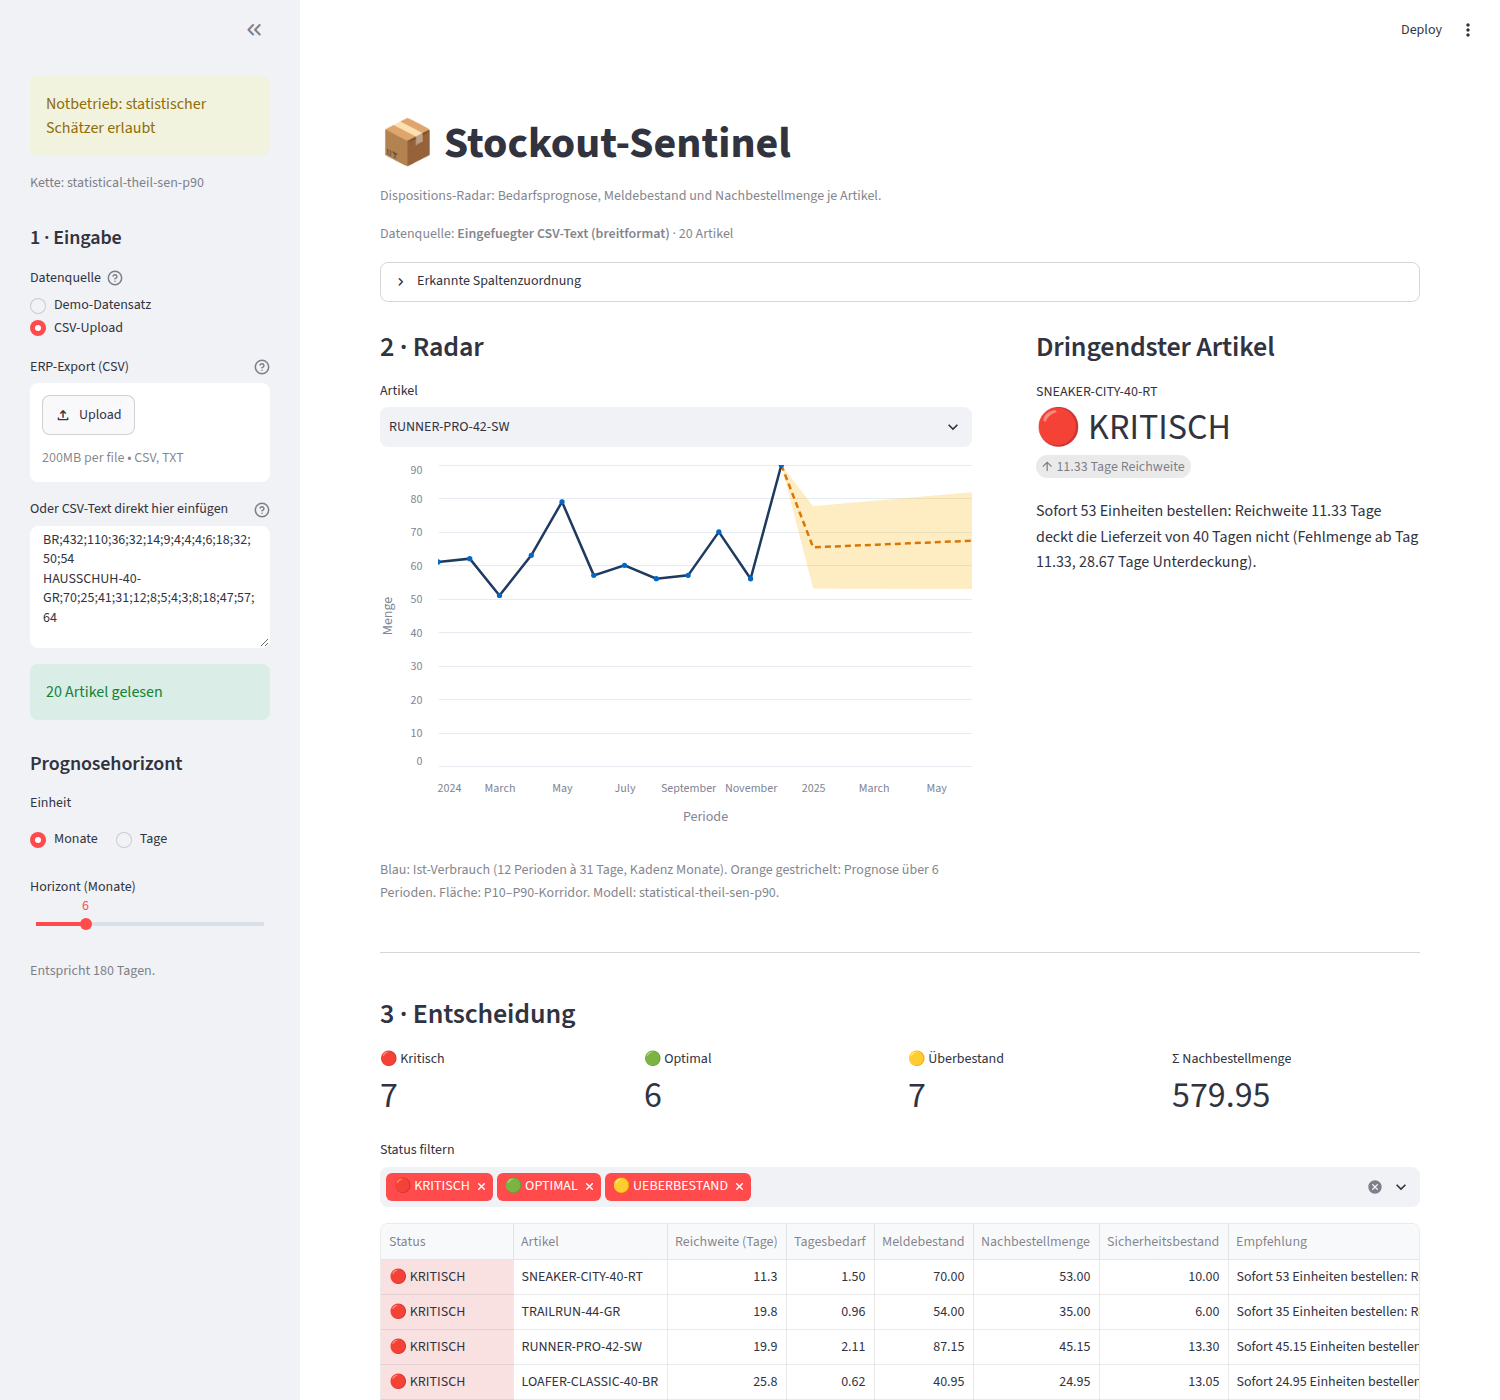
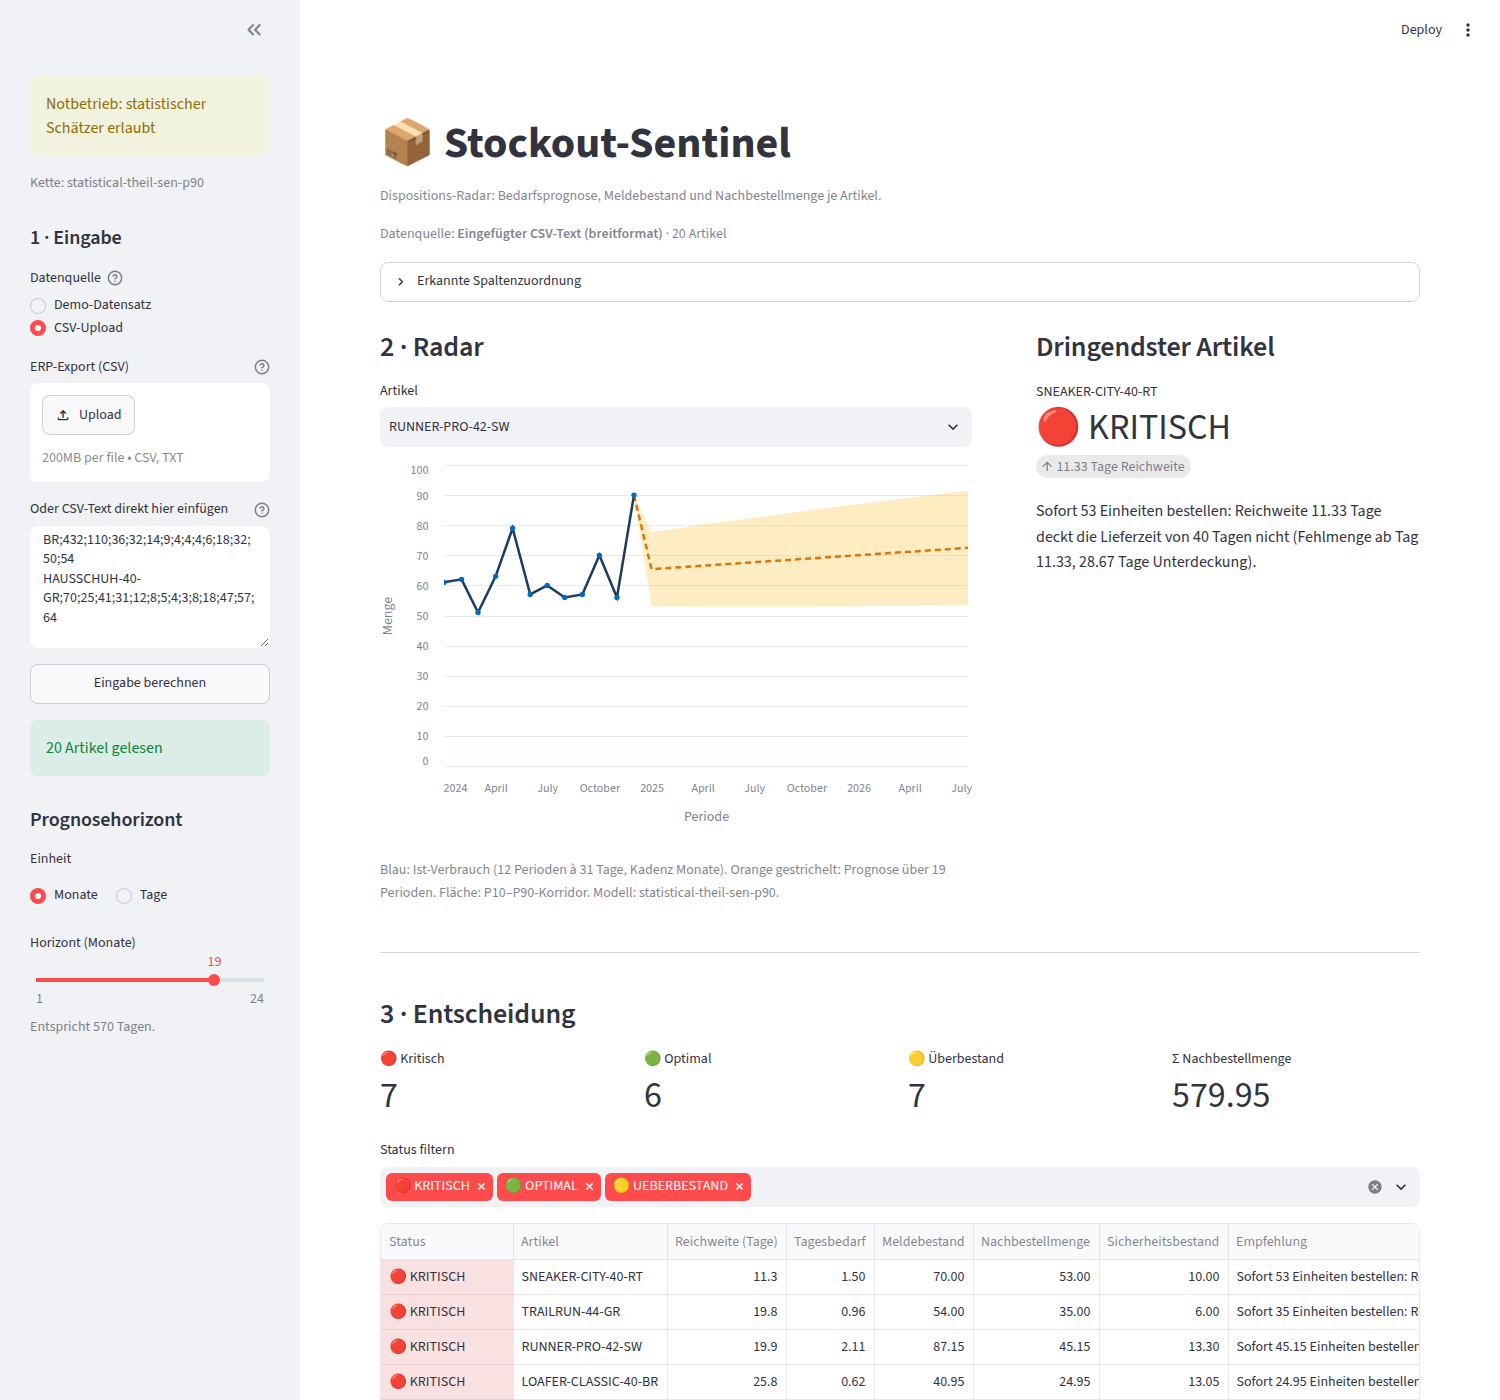
Texteingabe erst auf Knopfdruck berechnen
Das Textfeld loest auf Mobilgeraeten beim Tippen und bei jedem Fokus-
wechsel einen Rerun aus. Ohne Bestaetigung rechnete die App dadurch auf
halb eingefuegtem Text und zeigte Fehlermeldungen, die sich von selbst
wieder erledigten. Ein eigener Knopf beendet das.

app.py
- Neuer Knopf "Eingabe berechnen" direkt unter dem Textfeld. Erst er
  bereitet den Inhalt auf und loest die Auswertung aus.
- Der bestaetigte Inhalt liegt im Session-State: ein Button meldet seinen
  Druck nur im unmittelbar folgenden Durchlauf, sonst waere das Ergebnis
  beim naechsten Rerun - etwa beim Verschieben des Horizont-Reglers -
  wieder verloren.
- waehle_csv_quelle() nimmt den Textteil jetzt als fertige Bytes entgegen;
  die Aufbereitung wandert damit an die Stelle, an der bestaetigt wird.
- Rueckmeldungen fuer alle Zwischenzustaende: erfasster, aber noch nicht
  bestaetigter Text; leeres Feld beim Knopfdruck; geleertes Feld setzt die
  Auswertung zurueck.
- Die erlaubten Dateitypen des Uploads sind unveraendert ['csv', 'txt'] -
  das stand bereits so im Code.
- Keine Daten hinterlegt: die Oberflaeche arbeitet ausschliesslich mit dem,
  was der Nutzer uebergibt.

Tests
- 6 neue Faelle: Knopf vorhanden, Text allein rechnet nicht, Knopfdruck
  erzeugt die Ampeltabelle, Ergebnis uebersteht einen spaeteren Rerun,
  leeres Feld wird gemeldet, geleertes Feld setzt zurueck.
- Im Browser gegengeprueft: ohne Knopfdruck keine Tabelle, nach Knopfdruck
[…]

diff --git a/tests/test_ui.py b/tests/test_ui.py
@@ -165,7 +165,7 @@ class TestEingefuegterText:
         assert ui.text_zu_rohdaten(text) == b""
 
     def test_text_wird_genutzt_wenn_keine_datei_vorliegt(self) -> None:
-        rohdaten, herkunft, hinweis = ui.waehle_csv_quelle(None, None, "A;B\nx;1")
+        rohdaten, herkunft, hinweis = ui.waehle_csv_quelle(None, None, b"A;B\nx;1\n")
 
         assert rohdaten == b"A;B\nx;1\n"
         assert herkunft == "Eingefügter CSV-Text"
@@ -174,16 +174,17 @@ class TestEingefuegterText:
     def test_datei_hat_vorrang_und_das_wird_gemeldet(self) -> None:
         """Keine der beiden Eingaben darf stillschweigend verfallen."""
         rohdaten, herkunft, hinweis = ui.waehle_csv_quelle(
-            b"aus-datei", "export.csv", "auch text"
+            b"aus-datei", "export.csv", b"auch text"
         )
 
         assert rohdaten == b"aus-datei"
         assert herkunft == "export.csv"
         assert hinweis and "Datei" in hinweis
-        assert "eingefügter" in hinweis, "Sichtbarer Text braucht echte Umlaute"
+        assert "bestätigter" in hinweis, "Sichtbarer Text braucht echte Umlaute"
 
     def test_ohne_beides_bleibt_alles_leer(self) -> None:
         assert ui.waehle_csv_quelle(None, None, None) == (b"", "", None)
+        assert ui.waehle_csv_quelle(None, None, b"") == (b"", "", None)
 
     def test_eingefuegter_text_laeuft_durch_den_echten_importer(self) -> None:
         from src.adapters.csv_ingest import lese_csv
@@ -193,7 +194,9 @@ class TestEingefuegterText:
             "SNEAKER-42-SW;120;30;55;61;58\r\n"
             "STIEFEL-41-BR;40;60;12;9;7\r\n"
         )
-        rohdaten, _herkunft, _hinweis = ui.waehle_csv_quelle(None, None, text)
+        rohdaten, _herkunft, _hinweis = ui.waehle_csv_quelle(
+            None, None, ui.text_zu_rohdaten(text)
+        )
 
         ergebnis = lese_csv(rohdaten)
 
@@ -292,18 +295,41 @@ class TestOberflaeche:
         assert at.sidebar.text_area, "Kein Textfeld zum Einfuegen vorhanden"
         assert "einfügen" in at.sidebar.text_area[0].label.lower()
 
-    def test_eingefuegter_csv_text_erzeugt_die_ampeltabelle(self) -> None:
-        """Der eigentliche Zweck: Disposition ohne jeden Datei-Dialog."""
+    #: Kleiner Testexport: ein knapper und ein reichlich gedeckter Artikel.
+    CSV_TEXT = (
+        "Artikel;Bestand;Lieferzeit;2024-01;2024-02;2024-03;2024-04\n"
+        "SNEAKER-42-SW;20;30;55;61;58;60\n"
+        "STIEFEL-41-BR;900;60;12;9;7;8\n"
+    )
+
+    def _csv_modus(self):
         at = AppTest.from_file(APP_PFAD, default_timeout=ZEITGRENZE).run()
         at.sidebar.radio[0].set_value("CSV-Upload").run()
-        at.sidebar.text_area[0].set_value(
-            "Artikel;Bestand;Lieferzeit;2024-01;2024-02;2024-03;2024-04\n"
-            "SNEAKER-42-SW;20;30;55;61;58;60\n"
-            "STIEFEL-41-BR;900;60;12;9;7;8\n"
-        ).run()
+        return at
+
+    def test_berechnen_knopf_steht_unter_dem_textfeld(self) -> None:
+        at = self._csv_modus()
+
+        beschriftungen = [b.label for b in at.sidebar.button]
+        assert "Eingabe berechnen" in beschriftungen
+
+    def test_text_allein_rechnet_noch_nicht(self) -> None:
+        """Kern der Aenderung: erst die Bestaetigung loest die Berechnung aus."""
+        at = self._csv_modus()
+        at.sidebar.text_area[0].set_value(self.CSV_TEXT).run()
 
         assert not at.exception, at.exception
-        assert at.dataframe, "Keine Tabelle nach dem Einfuegen"
+        assert not at.dataframe, "Ohne Knopfdruck darf nicht gerechnet werden"
+        assert any("berechnen" in i.value for i in at.sidebar.info)
+
+    def test_knopfdruck_erzeugt_die_ampeltabelle(self) -> None:
+        """Der eigentliche Zweck: Disposition ohne jeden Datei-Dialog."""
+        at = self._csv_modus()
+        at.sidebar.text_area[0].set_value(self.CSV_TEXT).run()
+        at.sidebar.button[0].click().run()
+
+        assert not at.exception, at.exception
+        assert at.dataframe, "Keine Tabelle nach dem Knopfdruck"
 
         tabelle: pd.DataFrame = at.dataframe[0].value
         assert set(tabelle["Artikel"]) == {"SNEAKER-42-SW", "STIEFEL-41-BR"}
@@ -315,14 +341,51 @@ class TestOberflaeche:
         reichlich = tabelle[tabelle["Artikel"] == "STIEFEL-41-BR"].iloc[0]
         assert reichlich["Nachbestellmenge"] == 0
 
+    def test_ergebnis_ueberlebt_spaetere_bedienschritte(self) -> None:
+        """Ein Button meldet seinen Druck nur einmal - die Daten muessen bleiben."""
+        at = self._csv_modus()
+        at.sidebar.text_area[0].set_value(self.CSV_TEXT).run()
+        at.sidebar.button[0].click().run()
+        assert at.dataframe
+
+        # Horizont verstellen loest einen Rerun ohne Knopfdruck aus.
+        at.sidebar.slider[0].set_value(12).run()
+
+        assert not at.exception, at.exception
+        assert at.dataframe, "Nach dem Rerun waren die Daten verloren"
+        assert set(at.dataframe[0].value["Artikel"]) == {
+            "SNEAKER-42-SW",
+            "STIEFEL-41-BR",
+        }
+
+    def test_leeres_textfeld_wird_beim_knopfdruck_gemeldet(self) -> None:
+        at = self._csv_modus()
+        at.sidebar.button[0].click().run()
+
+        assert not at.exception, at.exception
+        assert any("leer" in w.value for w in at.sidebar.warning)
+        assert not at.dataframe
+
     def test_unbrauchbarer_text_meldet_einen_fehler(self) -> None:
-        at = AppTest.from_file(APP_PFAD, default_timeout=ZEITGRENZE).run()
-        at.sidebar.radio[0].set_value("CSV-Upload").run()
+        at = self._csv_modus()
         at.sidebar.text_area[0].set_value("nur;irgendwas\n1;2\n").run()
+        at.sidebar.button[0].click().run()
 
         assert not at.exception, at.exception
         assert any("nicht lesbar" in e.value for e in at.sidebar.error)
         assert not at.dataframe
+
+    def test_geleertes_textfeld_setzt_die_auswertung_zurueck(self) -> None:
+        at = self._csv_modus()
+        at.sidebar.text_area[0].set_value(self.CSV_TEXT).run()
+        at.sidebar.button[0].click().run()
+        assert at.dataframe
+
+        at.sidebar.text_area[0].set_value("").run()
+        at.sidebar.button[0].click().run()
+
+        assert not at.exception, at.exception
+        assert not at.dataframe, "Nach dem Leeren darf nichts stehen bleiben"
 
 
 @pytest.mark.usefixtures("pflichtmodus")

diff --git a/app.py b/app.py
@@ -49,6 +49,12 @@ __all__ = [
 
 TITEL = "Stockout-Sentinel"
 
+#: Schluessel im Session-State: der zuletzt *bestaetigte* Textfeldinhalt.
+#: Ohne diese Ablage waere der Inhalt nach dem naechsten Rerun - etwa beim
+#: Verschieben des Horizont-Reglers - wieder verloren, denn ein Button
+#: meldet seinen Druck nur im unmittelbar folgenden Durchlauf.
+SCHLUESSEL_TEXT = "bestaetigter_csv_text"
+
 #: Farbwahl bewusst kontrastreich und nicht rot/gruen-abhaengig - die Ampel
 #: traegt ihre Aussage ohnehin im Symbol, der Graph soll unabhaengig davon
 #: lesbar bleiben.
@@ -108,9 +114,15 @@ def text_zu_rohdaten(text: str) -> bytes:
 
 
 def waehle_csv_quelle(
-    datei_inhalt: bytes | None, datei_name: str | None, text: str | None
+    datei_inhalt: bytes | None,
+    datei_name: str | None,
+    text_rohdaten: bytes | None,
 ) -> tuple[bytes, str, str | None]:
-    """Entscheidet zwischen hochgeladener Datei und eingefuegtem Text.
+    """Entscheidet zwischen hochgeladener Datei und bestaetigtem Textinhalt.
+
+    ``text_rohdaten`` ist der bereits mit :func:`text_zu_rohdaten`
+    aufbereitete Inhalt des Textfelds - aufbereitet wird er erst, wenn der
+    Nutzer die Eingabe bestaetigt hat, nicht bei jedem Tastendruck.
 
     Die Datei hat Vorrang: sie ist die bewusstere Handlung. Liegt beides
     vor, wird das gemeldet, statt stillschweigend eine der beiden Eingaben
@@ -121,18 +133,18 @@ def waehle_csv_quelle(
         nichts vorliegt; ``hinweis`` ist gesetzt, wenn beide Wege belegt
         sind.
     """
-    hat_text = bool(text and text.strip())
+    hat_text = bool(text_rohdaten)
 
     if datei_inhalt:
         hinweis = (
-            "Datei und eingefügter Text liegen vor – die Datei wird verwendet."
+            "Datei und bestätigter Text liegen vor – die Datei wird verwendet."
             if hat_text
             else None
         )
         return datei_inhalt, (datei_name or "Hochgeladene Datei"), hinweis
 
     if hat_text:
-        return text_zu_rohdaten(text or ""), "Eingefügter CSV-Text", None
+        return bytes(text_rohdaten or b""), "Eingefügter CSV-Text", None
 
     return b"", "", None
 
@@ -309,16 +321,26 @@ def _zone_eingabe() -> tuple[list[SKUInput], dict[str, str], list, str]:
             height=150,
             placeholder="Artikel;Bestand;Lieferzeit;2024-01;2024-02;...",
             help=(
-                "CSV-Inhalt kopieren und hier einsetzen - er wird sofort "
-                "gelesen, ganz ohne Datei-Dialog. Gleiche Spaltenerkennung "
-                "wie beim Upload."
+                "CSV-Inhalt kopieren, hier einsetzen und anschließend "
+                "'Eingabe berechnen' drücken. Gleiche Spaltenerkennung wie "
+                "beim Upload."
             ),
         )
+
+        # Bewusst ein eigener Knopf: Auf Mobilgeraeten loest das Textfeld
+        # beim Tippen und bei jedem Fokuswechsel einen Rerun aus. Ohne
+        # Bestaetigung wuerde die App auf halb eingefuegtem Text rechnen und
+        # den Nutzer mit Fehlermeldungen beschiessen, die sich von selbst
+        # wieder erledigen.
+        if st.sidebar.button("Eingabe berechnen", width="stretch"):
+            st.session_state[SCHLUESSEL_TEXT] = text_zu_rohdaten(eingefuegt or "")
+            if not st.session_state[SCHLUESSEL_TEXT]:
+                st.sidebar.warning("Das Textfeld ist leer – es gibt nichts zu berechnen.")
 
         rohdaten, herkunft, hinweis = waehle_csv_quelle(
             datei.getvalue() if datei is not None else None,
             datei.name if datei is not None else None,
-            eingefuegt,
+            st.session_state.get(SCHLUESSEL_TEXT, b""),
         )
         if hinweis:
             st.sidebar.info(hinweis)
@@ -334,6 +356,8 @@ def _zone_eingabe() -> tuple[list[SKUInput], dict[str, str], list, str]:
                 warnungen = ergebnis.warnungen
                 quelle = f"{herkunft} ({ergebnis.layout}format)"
                 st.sidebar.success(f"{len(artikel)} Artikel gelesen")
+        elif eingefuegt and eingefuegt.strip():
+            st.sidebar.info("Text erfasst – jetzt 'Eingabe berechnen' drücken.")
         else:
             st.sidebar.info("Noch keine Datei gewählt und kein Text eingefügt.")
     else:

diff --git a/README.md b/README.md
@@ -289,10 +289,16 @@ Erreichbar unter <http://localhost:8501>. Drei Zonen:
   werden angezeigt.
 * **CSV-Text einfügen** — darunter ein Textfeld für den Weg ohne Datei-Dialog.
   Auf Mobilgeräten ist das Auswählen einer Datei umständlich, Einfügen aus der
-  Zwischenablage nicht. Der Text wird über `io.StringIO` wie eine Datei
-  gelesen; BOM, geschützte Leerzeichen und gemischte Zeilenenden — die
-  typischen Mitbringsel aus Messengern — werden dabei bereinigt. Liegt beides
-  vor, gewinnt die Datei und die Oberfläche sagt das.
+  Zwischenablage nicht. Gerechnet wird erst auf **„Eingabe berechnen"**: Das
+  Textfeld löst beim Tippen und bei jedem Fokuswechsel einen Rerun aus, und
+  ohne diese Bestätigung würde die App auf halb eingefügtem Text rechnen und
+  Fehlermeldungen zeigen, die sich von selbst wieder erledigen. Der bestätigte
+  Inhalt liegt im Session-State und übersteht damit spätere Bedienschritte wie
+  das Verschieben des Horizont-Reglers.
+  Der Text wird über `io.StringIO` wie eine Datei gelesen; BOM, geschützte
+  Leerzeichen und gemischte Zeilenenden — die typischen Mitbringsel aus
+  Messengern — werden dabei bereinigt. Liegt beides vor, gewinnt die Datei und
+  die Oberfläche sagt das.
 * **Demo-Datensätze** — vier Szenarien (gemischtes Sortiment, Engpass,
   Kapitalbindung, Saison). Sie werden **programmatisch erzeugt**: im
   Repository liegen weiterhin keine Beispieldateien und keine
